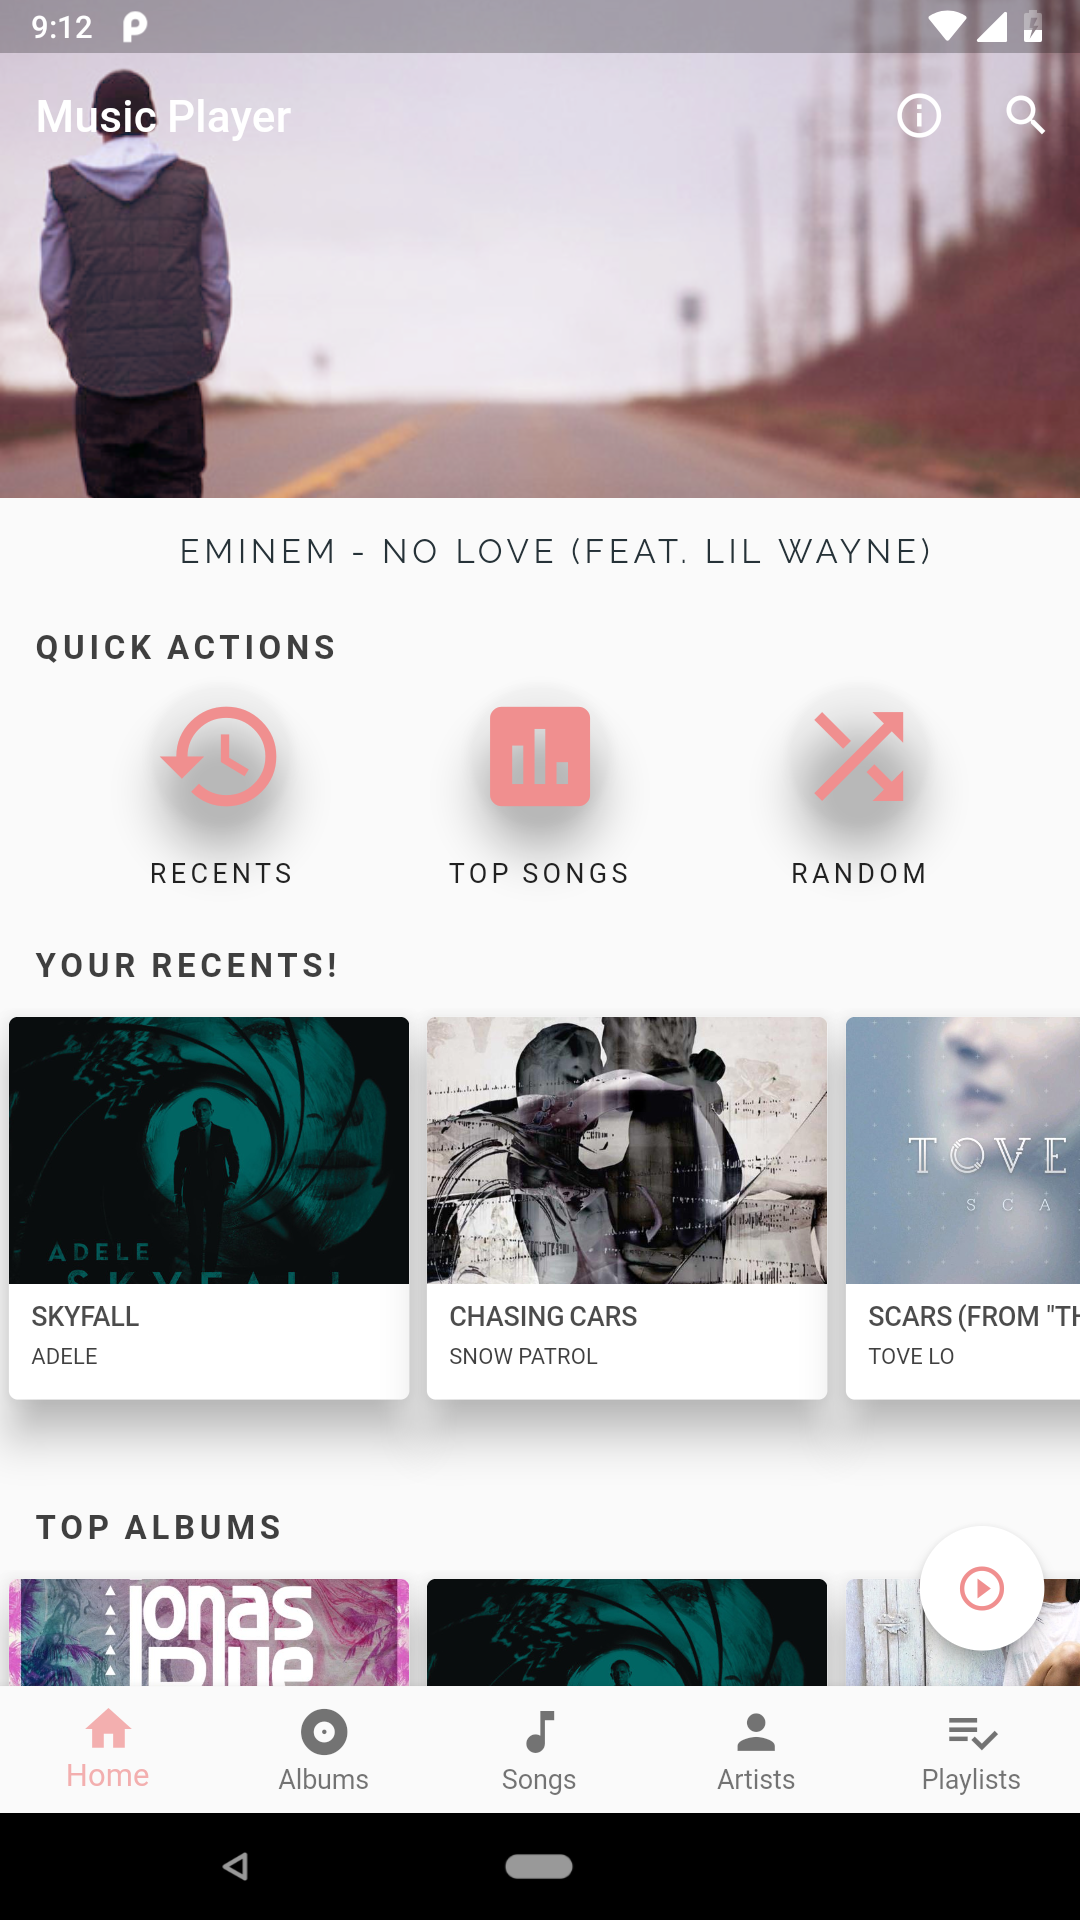
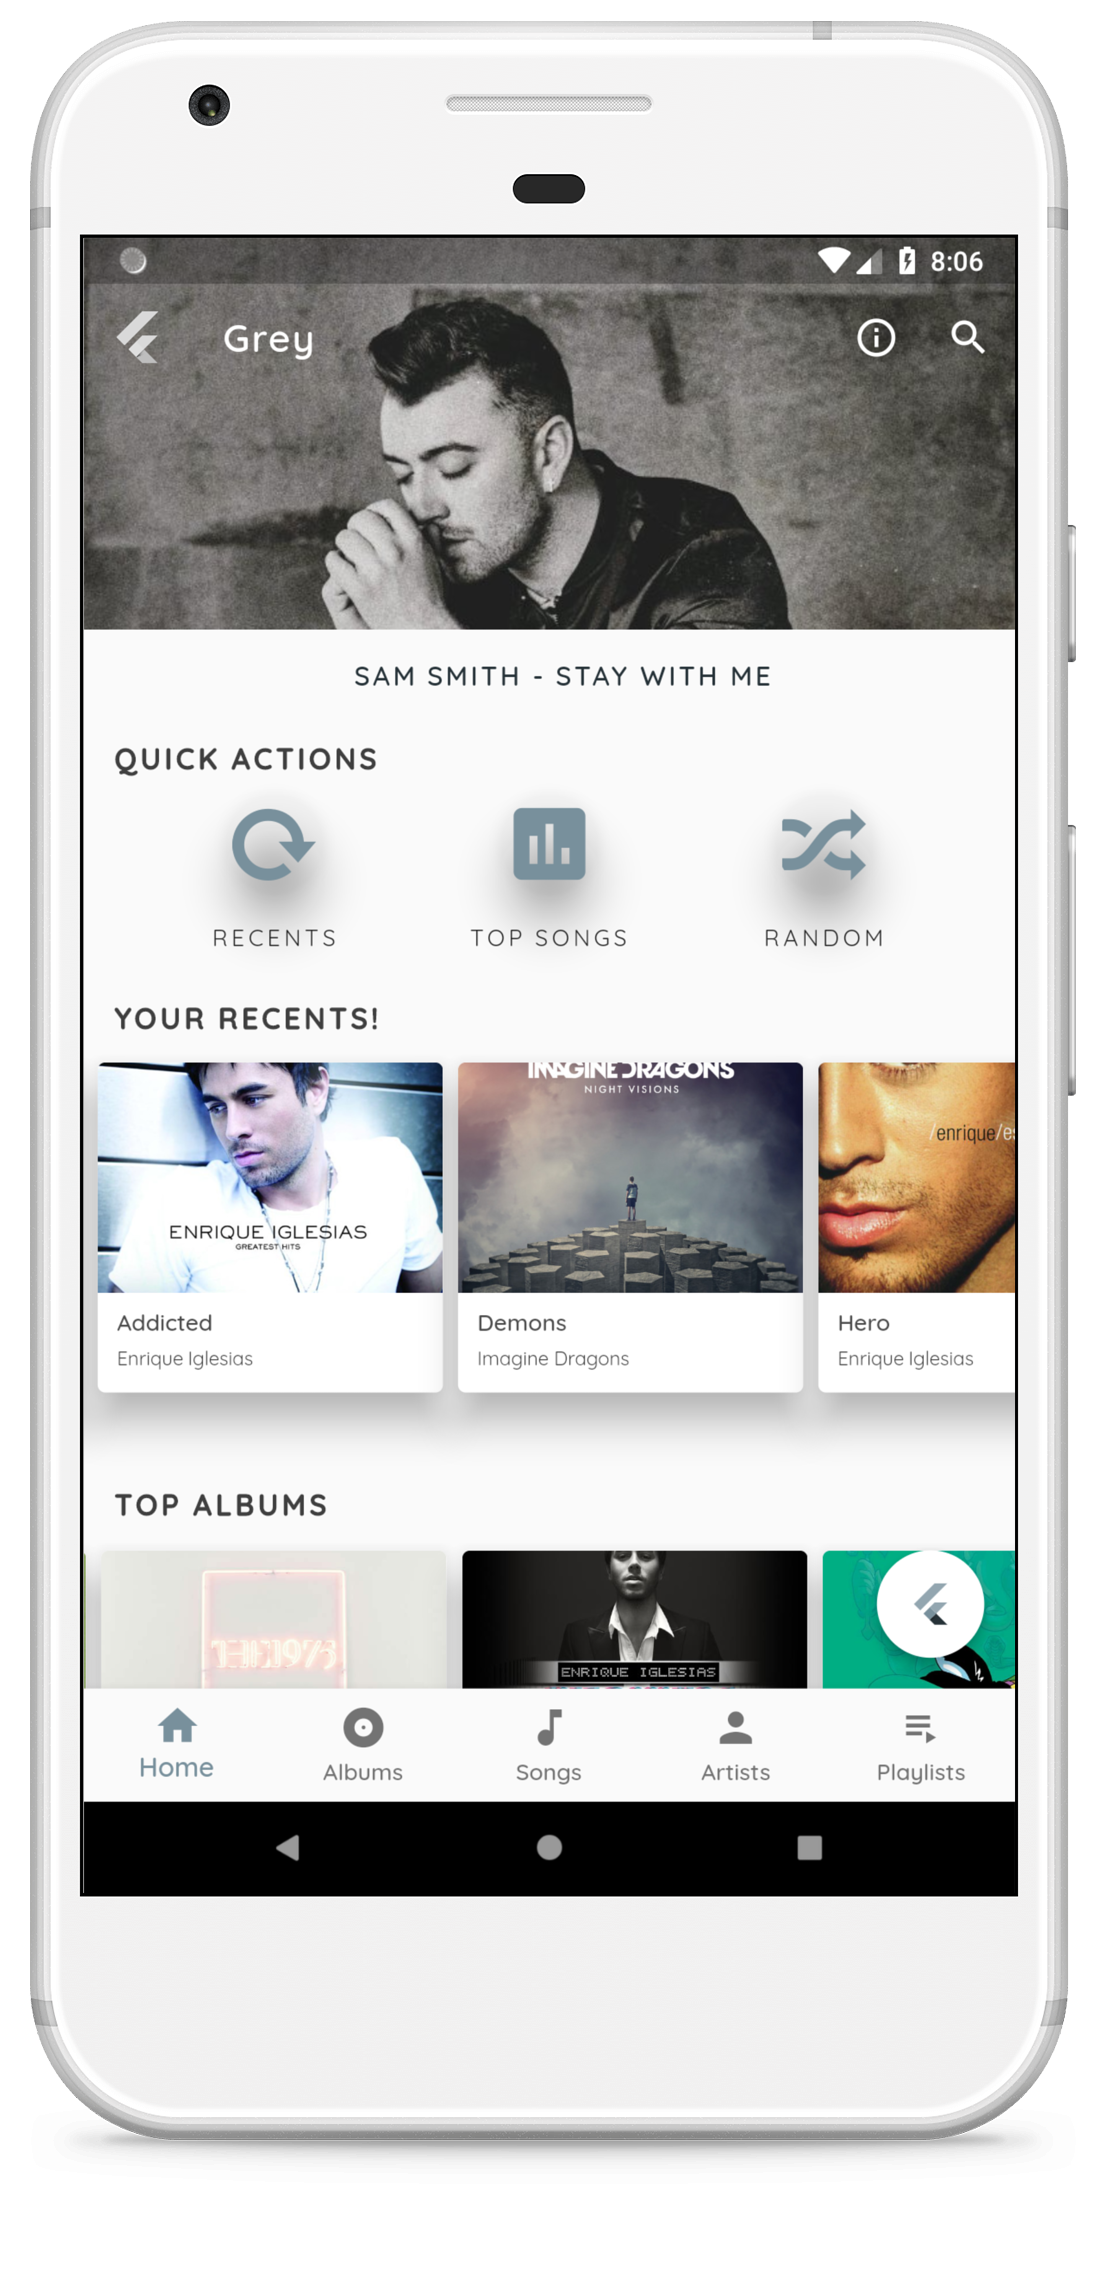
Updated README.md

diff --git a/lib/views/home.dart b/lib/views/home.dart
@@ -15,7 +15,6 @@ import 'package:musicplayer/util/lastplay.dart';
 import 'package:flutter/cupertino.dart';
 
 
-import '../theme.dart';
 
 class Home extends StatefulWidget {
   DatabaseClient db;
@@ -223,8 +222,8 @@ class stateHome extends State<Home> {
                           new RawMaterialButton(
                             shape: CircleBorder(),
                             fillColor: Colors.transparent,
-                            splashColor: lightAccentColor,
-                            highlightColor: lightAccentColor.withOpacity(0.3),
+                            splashColor: Colors.blueGrey[200],
+                            highlightColor: Colors.blueGrey[200].withOpacity(0.3),
                             elevation: 18.0,
                             onPressed: () {
                               Navigator.of(context).push(
@@ -252,8 +251,8 @@ class stateHome extends State<Home> {
                         new RawMaterialButton(
                           shape: CircleBorder(),
                           fillColor: Colors.transparent,
-                          splashColor: lightAccentColor,
-                          highlightColor: lightAccentColor.withOpacity(0.3),
+                          splashColor: Colors.blueGrey[200],
+                          highlightColor: Colors.blueGrey[200].withOpacity(0.3),
                           elevation: 18.0,
                           onPressed: () {
                             Navigator
@@ -279,8 +278,8 @@ class stateHome extends State<Home> {
                           new RawMaterialButton(
                             shape: CircleBorder(),
                             fillColor: Colors.transparent,
-                            splashColor: lightAccentColor,
-                            highlightColor: lightAccentColor.withOpacity(0.3),
+                            splashColor: Colors.blueGrey[200],
+                            highlightColor: Colors.blueGrey[200].withOpacity(0.3),
                             elevation: 18.0,
                             onPressed: () {
                               Navigator.of(context).push(
@@ -380,7 +379,7 @@ class stateHome extends State<Home> {
                     child: Padding(
                       padding: const EdgeInsets.only(top: 50.0),
                       child: new CircularProgressIndicator(
-                        backgroundColor: lightAccentColor,
+                        backgroundColor: Colors.blueGrey[400],
                       ),
                     ),
                   )
@@ -405,7 +404,7 @@ class stateHome extends State<Home> {
                     elevation: 20.0,
                     shape: CircleBorder(
                         side: BorderSide(
-                            color: lightAccentColor, style: BorderStyle.none)),
+                            color: Colors.blueGrey[200], style: BorderStyle.none)),
                     child: new InkResponse(
                       child: SizedBox(
                         child: Hero(

diff --git a/lib/pages/now_playing.dart b/lib/pages/now_playing.dart
@@ -7,7 +7,7 @@ import 'package:flutter/material.dart';
 import 'package:musicplayer/database/database_client.dart';
 import 'package:musicplayer/util/lastplay.dart';
 import 'package:shared_preferences/shared_preferences.dart';
-import '../theme.dart';
+
 
 class NowPlaying extends StatefulWidget {
   int mode;
@@ -450,7 +450,7 @@ class _stateNowPlaying extends State<NowPlaying>
                                 setFav(song);
                               }),
                           new IconButton(
-                            splashColor: lightAccentColor,
+                            splashColor: Colors.blueGrey[200],
                             highlightColor: Colors.transparent,
                             icon: new Icon(
                               Icons.skip_previous,
@@ -467,7 +467,7 @@ class _stateNowPlaying extends State<NowPlaying>
                             onPressed: _playpause,
                           ),
                           new IconButton(
-                            splashColor: lightAccentColor.withOpacity(0.5),
+                            splashColor: Colors.blueGrey[200].withOpacity(0.5),
                             highlightColor: Colors.transparent,
                             icon: new Icon(
                               Icons.skip_next,
@@ -504,7 +504,7 @@ class _stateNowPlaying extends State<NowPlaying>
                   color: Colors.white.withOpacity(0.1),
                   child: FlatButton(
                     onPressed: _showBottomSheet,
-                    highlightColor: lightAccentColor.withOpacity(0.1),
+                    highlightColor: Colors.blueGrey[200].withOpacity(0.1),
                     child: Text(
                       "UP NEXT",
                       style: TextStyle(
@@ -513,7 +513,7 @@ class _stateNowPlaying extends State<NowPlaying>
                           fontFamily: "Quicksand",
                           fontWeight: FontWeight.bold),
                     ),
-                    splashColor: lightAccentColor.withOpacity(0.1),
+                    splashColor: Colors.blueGrey[200].withOpacity(0.1),
                   ),
                 )
               ],

diff --git a/lib/musichome.dart b/lib/musichome.dart
@@ -13,7 +13,7 @@ import 'package:musicplayer/views/home.dart';
 import 'package:musicplayer/views/playlists.dart';
 import 'package:musicplayer/views/songs.dart';
 import 'package:shared_preferences/shared_preferences.dart';
-import 'theme.dart';
+
 
 
 class MusicHome extends StatefulWidget {
@@ -175,7 +175,7 @@ class _musicState extends State<MusicHome> {
         new BottomNavigationBarItem(
             icon: new Icon(d.icon),
             title: new Text(d.title,style: TextStyle(fontWeight: FontWeight.w500,),),
-            backgroundColor: accentColor),
+            backgroundColor: Colors.blueGrey[200]),
       );
     }
 

diff --git a/lib/pages/artistcard.dart b/lib/pages/artistcard.dart
@@ -10,7 +10,6 @@ import 'package:musicplayer/util/lastplay.dart';
 import 'package:flutter/cupertino.dart';
 import 'package:musicplayer/util/utility.dart';
 
-import '../theme.dart';
 
 class ArtistCard extends StatefulWidget {
   int id;

diff --git a/README.md b/README.md
@@ -4,45 +4,9 @@ A Material designed music player developed in Flutter
 Download releases <a href="https://github.com/avirias/Grey/releases">here</a>.
 
 # Screenshots
-<table>
-  <tr>
-    <td>
-      <img src="screenshots/now_playing.png" height=450 width=253/>
-      <br>
-      Now playing
-    </td>
-    <td>
-      <img src="screenshots/home1.png" height=450 width=253>
-      <br>
-      Home
-      </td>
-      <td>
-      <img src="screenshots/home2.png" height=450 width=253>
-        <br>
-      Home
-      </td>
-    </tr>
-  <tr>
-      <td>
-      <img src="screenshots/albums.png" height=450 width=253>
-        <br>
-      Album
-      </td>
-    <td>
-      <img src="screenshots/album_view.png" height=450 width=253>
-      <br>
-      Album View
-      </td>
-      <td>
-      <img src="screenshots/artist.png" height=450 width=253>
-      <br>
-      Artist View
-      </td>
-    </tr>
-    
-
-
-  </table>
+<img src="screenshots/home1.png" height="480px"><img src="screenshots/home2.png" height="480px"><img src="screenshots/album.png" height="480px">
+<img src="screenshots/album_view.png" height="480px"><img src="screenshots/songs.png" height="480px"><img src="screenshots/now_playing.png" height="480px">
+<img src="screenshots/artist.png" height="480px"><img src="screenshots/artist_view.png" height="480px">
 
 # Plugins
 Music player plugin used : <a href="https://github.com/iampawan/Flute-Music-Player">Flute-music</a>
